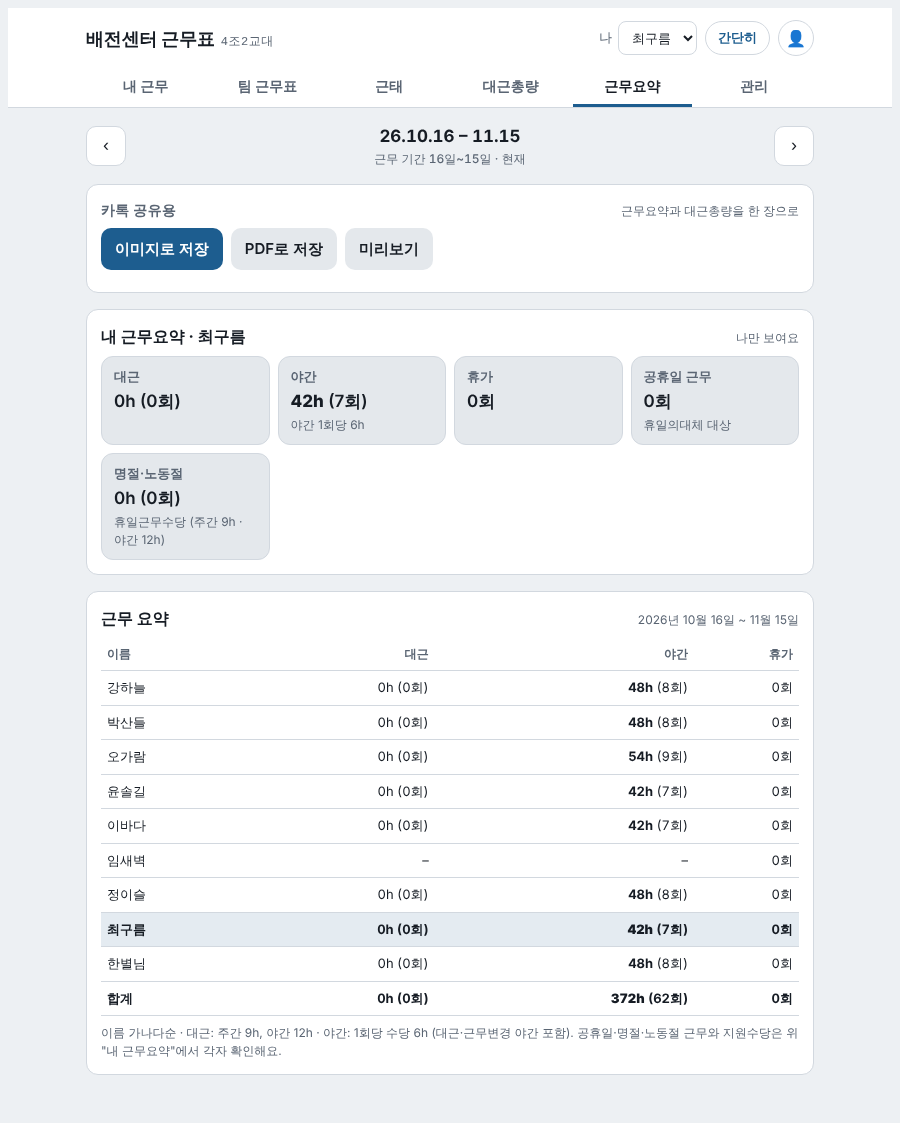
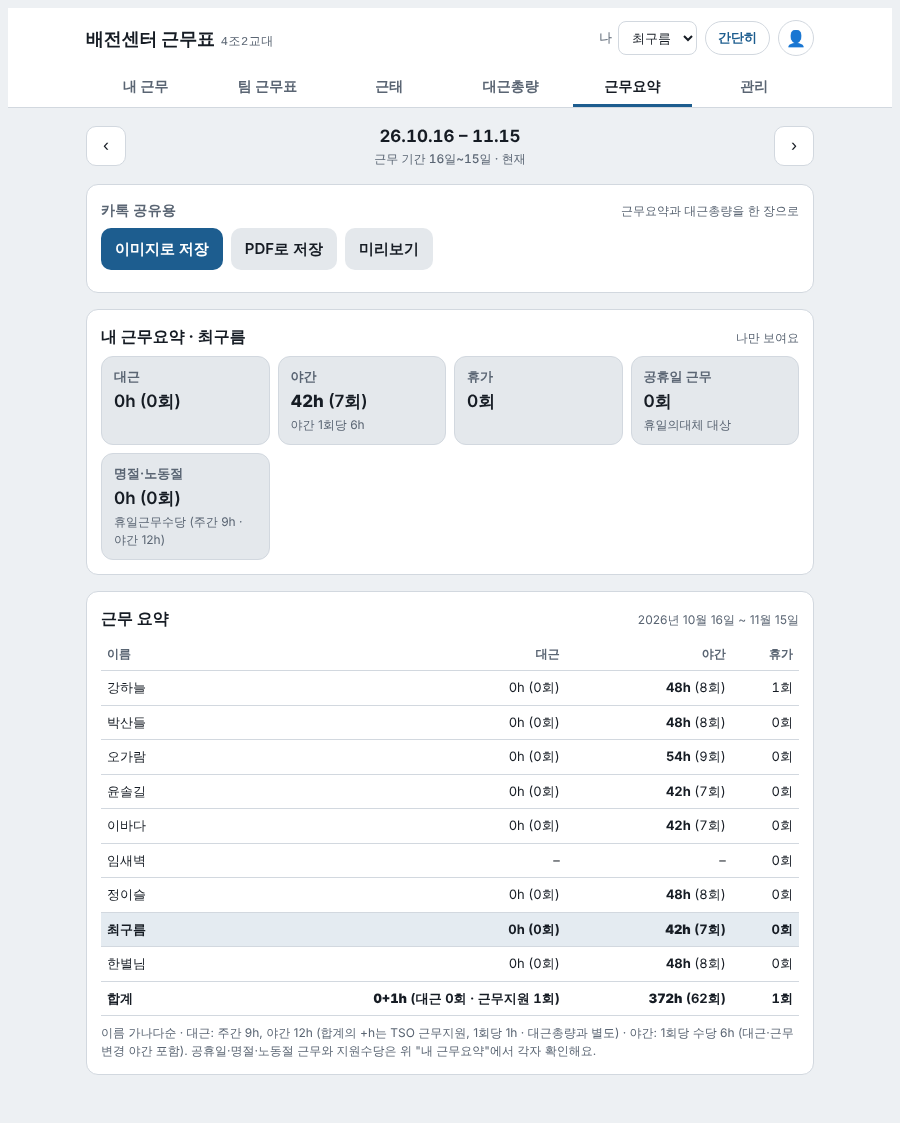
근무요약 합계 대근 칸: 대근 + TSO 근무지원 시간 '102+11h'
Claude-Session: https://claude.ai/code/session_01RDw4nRx8UAsNg7UtPaLwF3

diff --git a/app/index.html b/app/index.html
@@ -1,5 +1,5 @@
 <!doctype html>
-<html lang="ko"><head><script>window.APP_BUILD="2205b28555"</script>
+<html lang="ko"><head><script>window.APP_BUILD="2a7a33e95c"</script>
 <meta charset="utf-8">
 <meta name="viewport" content="width=device-width,initial-scale=1,viewport-fit=cover">
 <title>배전센터 근무표</title>
@@ -916,7 +916,7 @@ a.item.evlink{color:inherit;text-decoration:none}
     <div class="card">
       <div class="period" style="margin-bottom:8px"><h2>근무 요약</h2><span class="note" id="sumRange"></span></div>
       <div style="overflow-x:auto"><table class="sum" id="sumTable"></table></div>
-      <p class="note" style="margin:8px 0 0">이름 가나다순 · 대근: 주간 9h, 야간 12h · 야간: 1회당 수당 6h (대근·근무변경 야간 포함). 공휴일·명절·노동절 근무와 지원수당은 위 "내 근무요약"에서 각자 확인해요.</p>
+      <p class="note" style="margin:8px 0 0">이름 가나다순 · 대근: 주간 9h, 야간 12h (합계의 +h는 TSO 근무지원, 1회당 1h · 대근총량과 별도) · 야간: 1회당 수당 6h (대근·근무변경 야간 포함). 공휴일·명절·노동절 근무와 지원수당은 위 "내 근무요약"에서 각자 확인해요.</p>
     </div>
   </section>
 
@@ -1877,11 +1877,13 @@ function renderPay(){
   const lvTxt=r=>r.lv+'회'+(r.sb||r.gjc?' ('+[r.gjc?'경조 '+r.gjc:'',r.sb?'대체 '+r.sb:''].filter(Boolean).join(', ')+')':'');
   /* 팀 표: 이름 가나다순, 이름 · 대근 · 야간 · 휴가 (공휴일·명절은 내 근무요약에서만) */
   let h='<thead><tr><th>이름</th><th>대근</th><th>야간</th><th>휴가</th></tr></thead><tbody>';
-  const tot={nt:0,cv:0,cvh:0,lv:0};
+  const tot={nt:0,cv:0,cvh:0,lv:0,sup:0};
   for(const m of byName()){const r=stat(m),tso=m.role==='TSO';
-    tot.nt+=r.nt;tot.cv+=r.cv;tot.cvh+=r.cvh;tot.lv+=r.lv;
+    tot.nt+=r.nt;tot.cv+=r.cv;tot.cvh+=r.cvh;tot.lv+=r.lv;tot.sup+=r.sup;
     h+='<tr'+(m.id===me?' class="mine"':'')+'><td>'+esc(m.name)+'</td><td>'+(tso?'–':hc(r.cvh,r.cv))+'</td><td>'+(tso?'–':hc(r.nt*NIGHT_PAY,r.nt))+'</td><td>'+lvTxt(r)+'</td></tr>'}
-  h+='<tr style="font-weight:700"><td>합계</td><td>'+hc(tot.cvh,tot.cv)+'</td><td>'+hc(tot.nt*NIGHT_PAY,tot.nt)+'</td><td>'+tot.lv+'회</td></tr>';
+  /* 합계 대근 = 대근 시간 + TSO 근무지원 시간(1회 1h, 대근총량과 별도) → "102+11h" */
+  const cvTot=tot.sup?'<b>'+tot.cvh+'+'+tot.sup+'h</b> (대근 '+tot.cv+'회 · 근무지원 '+tot.sup+'회)':hc(tot.cvh,tot.cv);
+  h+='<tr style="font-weight:700"><td>합계</td><td>'+cvTot+'</td><td>'+hc(tot.nt*NIGHT_PAY,tot.nt)+'</td><td>'+tot.lv+'회</td></tr>';
   /* 내 근무요약: 공휴일·명절·지원수당까지 */
   const mm=me&&byId(me),box=$('#myPay');
   if(box){if(!mm){box.innerHTML='<p class="note" style="margin:0">위쪽 "나"에서 본인을 고르면 내 근무요약이 보여요.</p>'}
@@ -2684,7 +2686,7 @@ function buildReport(){
   const sumHtml=$('#sumTable').innerHTML.replace(/ class="mine"/g,'');
   const y=n=>{const d=new Date(n*864e5);return d.getUTCFullYear()+'. '+(d.getUTCMonth()+1)+'. '+d.getUTCDate()+'.'};
   let h='<div class="rp-head"><h1>근무 요약 · 대근총량</h1><span>경기배전센터</span></div><div class="rp-sub">근무 기간 '+y(a)+' ~ '+y(b-1)+' · '+y(todayN)+' 기준</div>';
-  h+='<h2>근무 요약</h2><table class="rp">'+sumHtml+'</table><p class="rp-note">이름 가나다순 · 대근: 주간 9h, 야간 12h · 야간: 1회당 수당 6h · 공휴일·명절 근무와 지원수당은 앱의 "내 근무요약"에서 각자 확인</p>';
+  h+='<h2>근무 요약</h2><table class="rp">'+sumHtml+'</table><p class="rp-note">이름 가나다순 · 대근: 주간 9h, 야간 12h (합계의 +h는 TSO 근무지원 1회당 1h) · 야간: 1회당 수당 6h · 공휴일·명절 근무와 지원수당은 앱의 "내 근무요약"에서 각자 확인</p>';
   const bg=budgetFor(Math.min(todayN,b-1));
   if(bg){
     const people=members.filter(m=>!(bg.transferred&&bg.transferred[m.id])&&(m.active!==false||(bg.rows&&bg.rows[m.id])));

diff --git a/src/shift-board.html b/src/shift-board.html
@@ -831,7 +831,7 @@ b.cxl{color:var(--bad)}
     <div class="card">
       <div class="period" style="margin-bottom:8px"><h2>근무 요약</h2><span class="note" id="sumRange"></span></div>
       <div style="overflow-x:auto"><table class="sum" id="sumTable"></table></div>
-      <p class="note" style="margin:8px 0 0">이름 가나다순 · 대근: 주간 9h, 야간 12h · 야간: 1회당 수당 6h (대근·근무변경 야간 포함). 공휴일·명절·노동절 근무와 지원수당은 위 "내 근무요약"에서 각자 확인해요.</p>
+      <p class="note" style="margin:8px 0 0">이름 가나다순 · 대근: 주간 9h, 야간 12h (합계의 +h는 TSO 근무지원, 1회당 1h · 대근총량과 별도) · 야간: 1회당 수당 6h (대근·근무변경 야간 포함). 공휴일·명절·노동절 근무와 지원수당은 위 "내 근무요약"에서 각자 확인해요.</p>
     </div>
   </section>
 
@@ -1787,11 +1787,13 @@ function renderPay(){
   const lvTxt=r=>r.lv+'회'+(r.sb||r.gjc?' ('+[r.gjc?'경조 '+r.gjc:'',r.sb?'대체 '+r.sb:''].filter(Boolean).join(', ')+')':'');
   /* 팀 표: 이름 가나다순, 이름 · 대근 · 야간 · 휴가 (공휴일·명절은 내 근무요약에서만) */
   let h='<thead><tr><th>이름</th><th>대근</th><th>야간</th><th>휴가</th></tr></thead><tbody>';
-  const tot={nt:0,cv:0,cvh:0,lv:0};
+  const tot={nt:0,cv:0,cvh:0,lv:0,sup:0};
   for(const m of byName()){const r=stat(m),tso=m.role==='TSO';
-    tot.nt+=r.nt;tot.cv+=r.cv;tot.cvh+=r.cvh;tot.lv+=r.lv;
+    tot.nt+=r.nt;tot.cv+=r.cv;tot.cvh+=r.cvh;tot.lv+=r.lv;tot.sup+=r.sup;
     h+='<tr'+(m.id===me?' class="mine"':'')+'><td>'+esc(m.name)+'</td><td>'+(tso?'–':hc(r.cvh,r.cv))+'</td><td>'+(tso?'–':hc(r.nt*NIGHT_PAY,r.nt))+'</td><td>'+lvTxt(r)+'</td></tr>'}
-  h+='<tr style="font-weight:700"><td>합계</td><td>'+hc(tot.cvh,tot.cv)+'</td><td>'+hc(tot.nt*NIGHT_PAY,tot.nt)+'</td><td>'+tot.lv+'회</td></tr>';
+  /* 합계 대근 = 대근 시간 + TSO 근무지원 시간(1회 1h, 대근총량과 별도) → "102+11h" */
+  const cvTot=tot.sup?'<b>'+tot.cvh+'+'+tot.sup+'h</b> (대근 '+tot.cv+'회 · 근무지원 '+tot.sup+'회)':hc(tot.cvh,tot.cv);
+  h+='<tr style="font-weight:700"><td>합계</td><td>'+cvTot+'</td><td>'+hc(tot.nt*NIGHT_PAY,tot.nt)+'</td><td>'+tot.lv+'회</td></tr>';
   /* 내 근무요약: 공휴일·명절·지원수당까지 */
   const mm=me&&byId(me),box=$('#myPay');
   if(box){if(!mm){box.innerHTML='<p class="note" style="margin:0">위쪽 "나"에서 본인을 고르면 내 근무요약이 보여요.</p>'}
@@ -2594,7 +2596,7 @@ function buildReport(){
   const sumHtml=$('#sumTable').innerHTML.replace(/ class="mine"/g,'');
   const y=n=>{const d=new Date(n*864e5);return d.getUTCFullYear()+'. '+(d.getUTCMonth()+1)+'. '+d.getUTCDate()+'.'};
   let h='<div class="rp-head"><h1>근무 요약 · 대근총량</h1><span>경기배전센터</span></div><div class="rp-sub">근무 기간 '+y(a)+' ~ '+y(b-1)+' · '+y(todayN)+' 기준</div>';
-  h+='<h2>근무 요약</h2><table class="rp">'+sumHtml+'</table><p class="rp-note">이름 가나다순 · 대근: 주간 9h, 야간 12h · 야간: 1회당 수당 6h · 공휴일·명절 근무와 지원수당은 앱의 "내 근무요약"에서 각자 확인</p>';
+  h+='<h2>근무 요약</h2><table class="rp">'+sumHtml+'</table><p class="rp-note">이름 가나다순 · 대근: 주간 9h, 야간 12h (합계의 +h는 TSO 근무지원 1회당 1h) · 야간: 1회당 수당 6h · 공휴일·명절 근무와 지원수당은 앱의 "내 근무요약"에서 각자 확인</p>';
   const bg=budgetFor(Math.min(todayN,b-1));
   if(bg){
     const people=members.filter(m=>!(bg.transferred&&bg.transferred[m.id])&&(m.active!==false||(bg.rows&&bg.rows[m.id])));

diff --git a/test/t_pay.py b/test/t_pay.py
@@ -9,13 +9,13 @@ with sync_playwright() as p:
     for w in (390,900):
         ctx,pg,errs=R['page'](b,R['ADMIN'],w); pg.goto(R['BASE']); pg.wait_for_timeout(500)
         pg.click('[data-g=google]'); pg.wait_for_timeout(500)
-        f=tempfile.NamedTemporaryFile('w',suffix='.json',delete=False); json.dump(R['TEST_DATA'],f,ensure_ascii=False); f.close()
+        f=tempfile.NamedTemporaryFile('w',suffix='.json',delete=False); D=json.loads(json.dumps(R['TEST_DATA']));import datetime;D['events']=D.get('events',[])+[{'_id':'tsup','type':'leave','memberId':[m['id'] for m in D['members'] if m.get('role')!='TSO' and m['team']=='A'][0],'date':'2026-10-27','shift':'주','leaveType':'연차','coverType':'tso','coverId':[m['id'] for m in D['members'] if m.get('role')=='TSO'][0],'createdAt':1}];json.dump(D,f,ensure_ascii=False); f.close()
         pg.set_input_files('#gImport',f.name); pg.click('[data-g=setup]'); pg.wait_for_timeout(1500)
         pg.click('[data-g=pick][data-id=B2]'); pg.wait_for_timeout(800)
         pg.click('[data-tab=pay]'); pg.wait_for_timeout(400)
         heads=pg.eval_on_selector_all('#sumTable thead th','e=>e.map(x=>x.textContent).join("|")')
         names=pg.eval_on_selector_all('#sumTable tbody tr td:first-child','e=>e.map(x=>x.textContent)')
         print(w,'heads',heads,'sorted',names[:-1]==sorted(names[:-1]),'fmt',pg.inner_text('#sumTable tbody tr:nth-child(1) td:nth-child(3)'))
-        print(w,'my',pg.inner_text('#myPay').replace('\n',' | ')[:160])
+        print(w,'total',pg.inner_text('#sumTable tbody tr:last-child td:nth-child(2)'));print(w,'my',pg.inner_text('#myPay').replace('\n',' | ')[:160])
         pg.locator('#myPay').scroll_into_view_if_needed(); pg.screenshot(path=SHOT+'/pay_%d.png'%w,full_page=True)
         print('errs',[e for e in errs if 'ERR_FAILED' not in e]); ctx.close()
